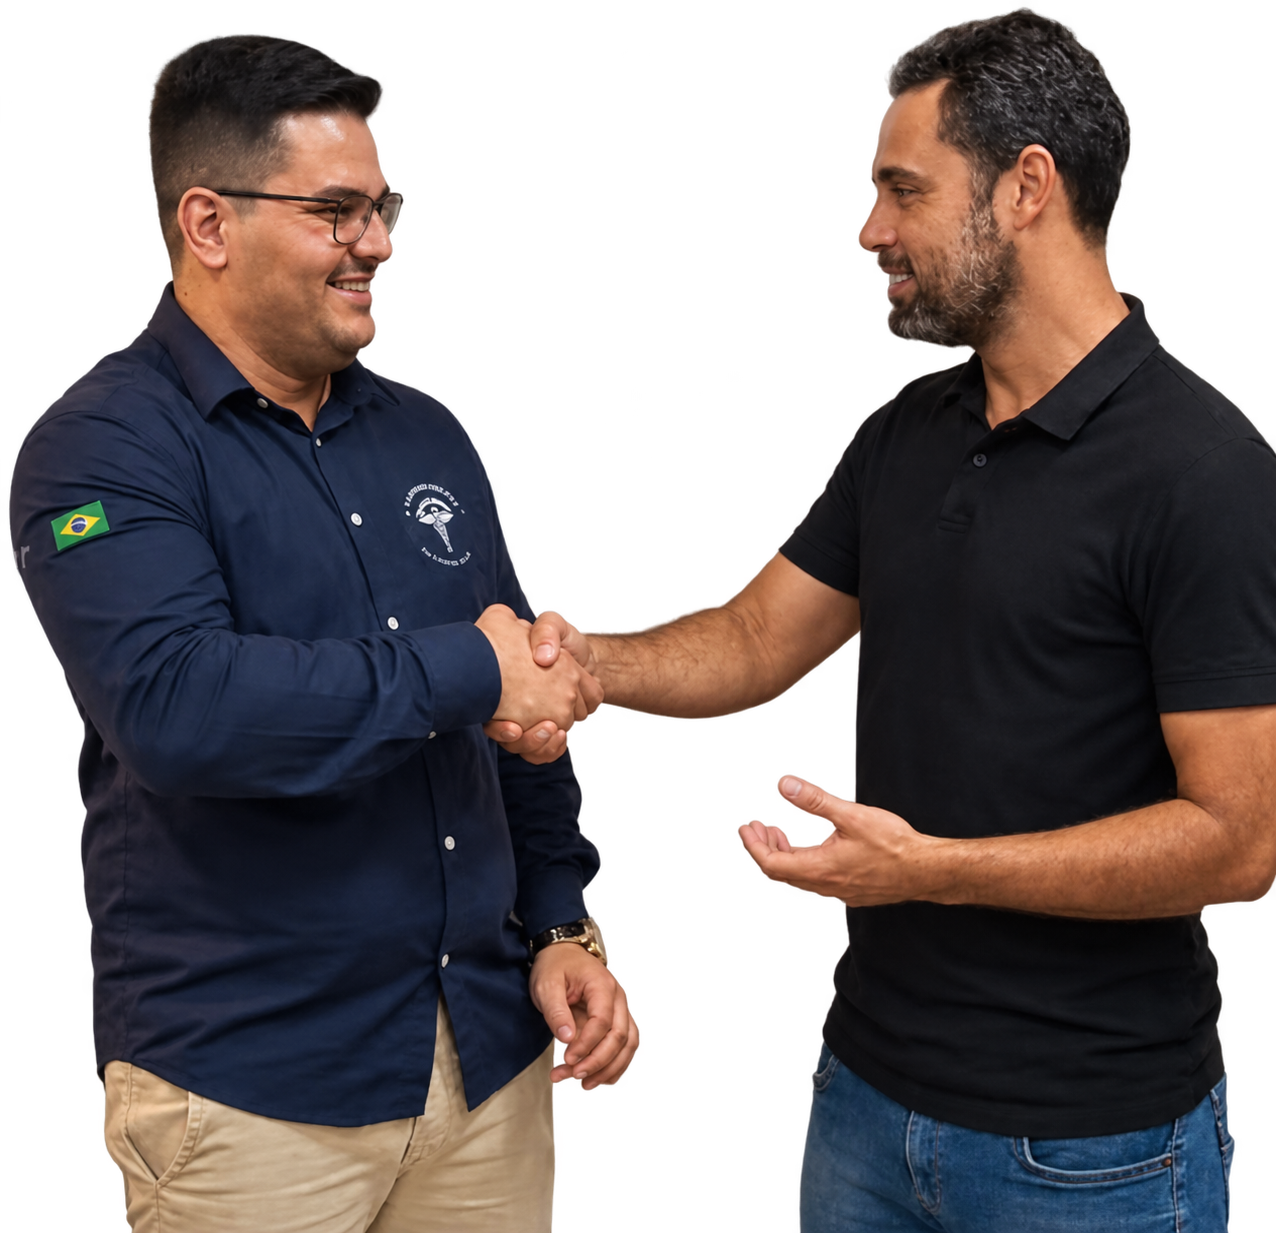
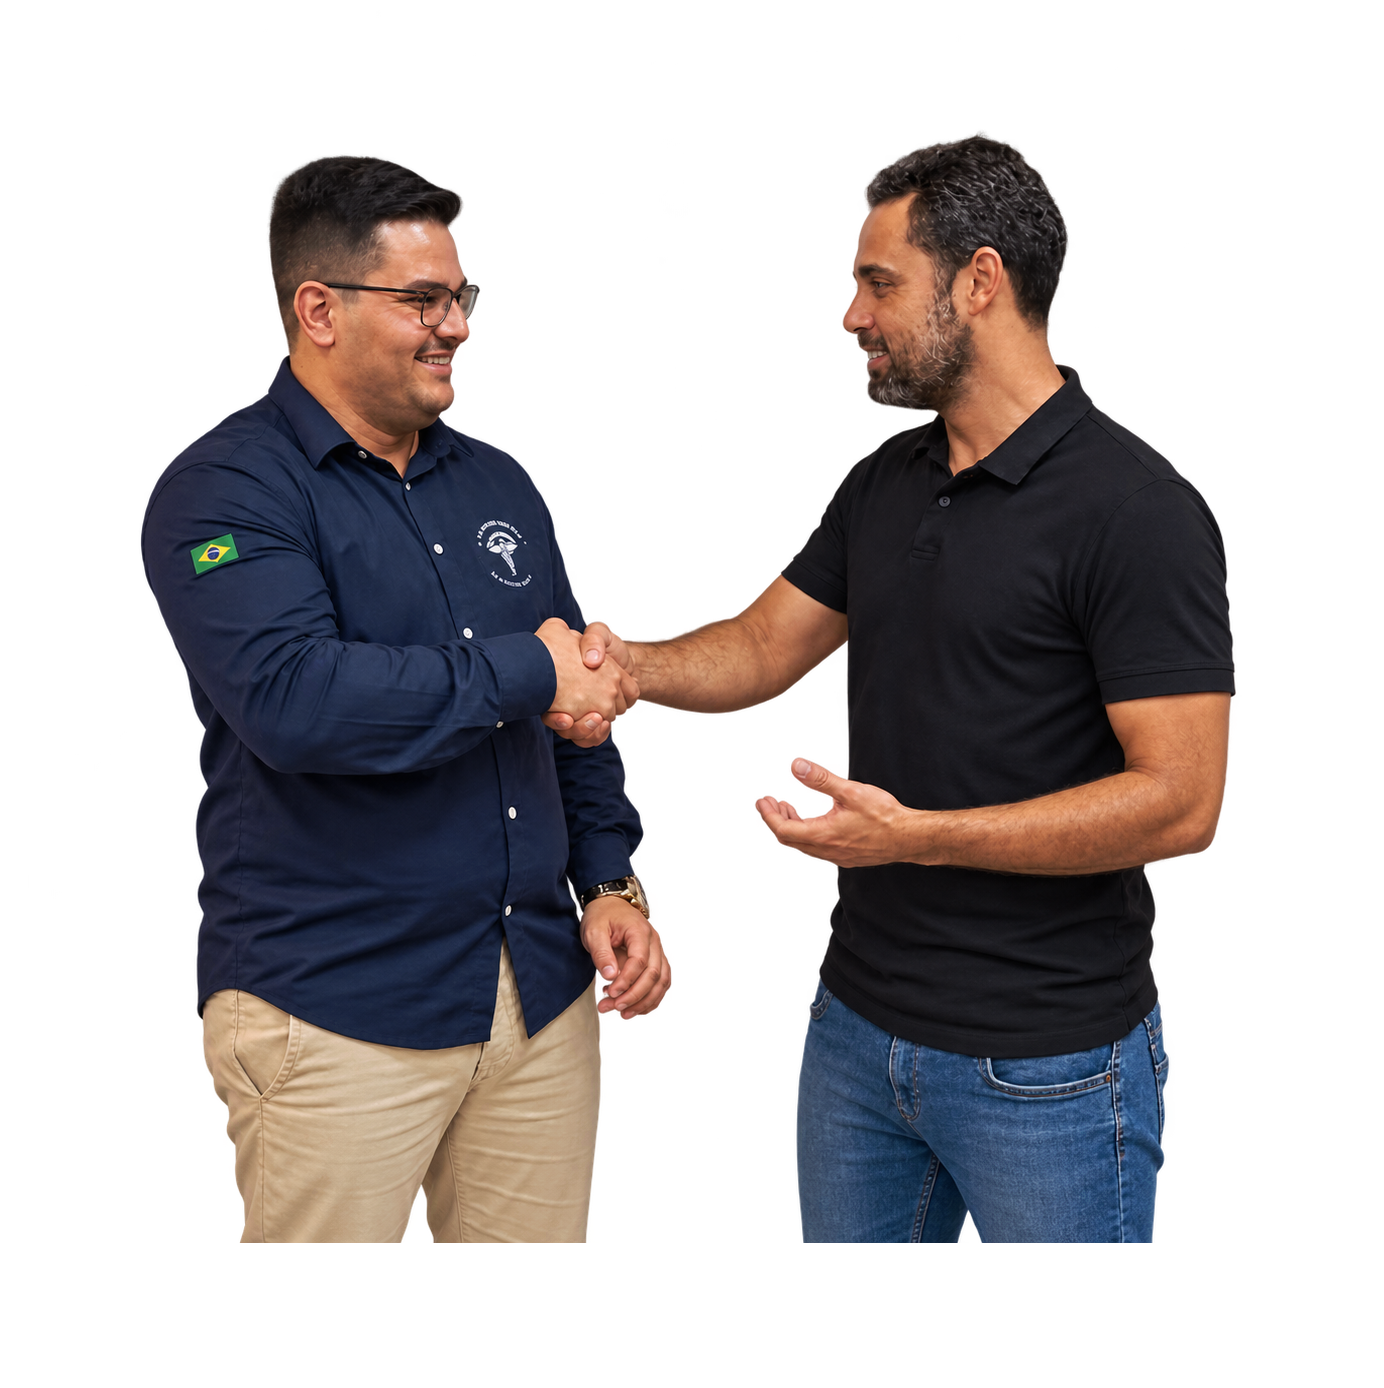
corrige scroll compacto, atmosfera clara e imagem de visibilidade

diff --git a/src/styles/global.css b/src/styles/global.css
@@ -45,26 +45,58 @@ body::after {
   pointer-events: none;
 }
 
-:root[data-theme='light'] body::after {
-  background-image:
-    radial-gradient(ellipse 56rem 44rem at 92% 14%, rgb(50 91 146 / 21%), transparent 72%),
-    radial-gradient(ellipse 50rem 40rem at 10% 52%, rgb(44 83 137 / 15%), transparent 74%),
-    radial-gradient(ellipse 62rem 42rem at 84% 96%, rgb(34 67 115 / 11.5%), transparent 78%);
-}
-
 @media (max-width: 43.75rem) {
-  body::after,
-  :root[data-theme='light'] body::after {
+  body::after {
     background-image:
       radial-gradient(ellipse 36rem 31rem at 100% 17%, rgb(48 112 190 / 7.5%), transparent 72%),
       radial-gradient(ellipse 32rem 29rem at 0% 78%, rgb(33 91 160 / 4.5%), transparent 74%);
   }
+}
 
-  :root[data-theme='light'] body::after {
+:root[data-theme='light'] body::after {
+  display: none;
+}
+
+:root[data-theme='light'] main > *,
+:root[data-theme='light'] main + footer {
+  background-image:
+    radial-gradient(ellipse 66rem 42rem at var(--atmosphere-primary, 86% 24%), var(--atmosphere-blue-strong), transparent 74%),
+    radial-gradient(ellipse 54rem 38rem at var(--atmosphere-secondary, 12% 82%), var(--atmosphere-blue-soft), transparent 76%),
+    radial-gradient(ellipse 62rem 42rem at var(--atmosphere-center, 50% 50%), var(--atmosphere-center-color, var(--atmosphere-blue-soft)), transparent 78%);
+}
+
+:root[data-theme='light'] main > *:nth-child(4n + 2) {
+  --atmosphere-primary: 12% 32%;
+  --atmosphere-secondary: 88% 84%;
+  --atmosphere-center: 50% 48%;
+}
+
+:root[data-theme='light'] main > *:nth-child(4n + 3) {
+  --atmosphere-primary: 78% 76%;
+  --atmosphere-secondary: 18% 18%;
+  --atmosphere-center: 48% 54%;
+}
+
+:root[data-theme='light'] main > *:nth-child(4n) {
+  --atmosphere-primary: 22% 60%;
+  --atmosphere-secondary: 86% 18%;
+  --atmosphere-center: 54% 46%;
+}
+
+:root[data-theme='light'] #processo {
+  --atmosphere-primary: 80% 16%;
+  --atmosphere-secondary: 18% 84%;
+  --atmosphere-center: 50% 50%;
+  --atmosphere-center-color: rgb(34 63 104 / 25%);
+}
+
+@media (max-width: 43.75rem) {
+  :root[data-theme='light'] main > *,
+  :root[data-theme='light'] main + footer {
     background-image:
-      radial-gradient(ellipse 36rem 33rem at 100% 15%, rgb(50 91 146 / 20%), transparent 72%),
-      radial-gradient(ellipse 33rem 32rem at 0% 52%, rgb(44 83 137 / 14%), transparent 74%),
-      radial-gradient(ellipse 36rem 30rem at 100% 94%, rgb(34 67 115 / 10.5%), transparent 78%);
+      radial-gradient(ellipse 35rem 31rem at var(--atmosphere-primary, 86% 24%), var(--atmosphere-blue-strong), transparent 74%),
+      radial-gradient(ellipse 31rem 28rem at var(--atmosphere-secondary, 12% 82%), var(--atmosphere-blue-soft), transparent 76%),
+      radial-gradient(ellipse 34rem 30rem at var(--atmosphere-center, 50% 50%), var(--atmosphere-center-color, var(--atmosphere-blue-soft)), transparent 78%);
   }
 }
 

diff --git a/src/sections/ProcessSection.module.css b/src/sections/ProcessSection.module.css
@@ -259,11 +259,53 @@
 }
 
 @media (max-height: 53rem) and (min-width: 56.251rem) {
-  .scene { padding-block: 1.75rem; }
-  .heading h2 { font-size: 2.5rem; }
-  .route { margin-top: 2rem; }
-  .copy h3 { font-size: 3rem; }
-  .step + .step { margin-top: 2rem; }
+  .section { padding-block: 1.25rem; }
+  .section[data-process-layout='sticky'] .scene {
+    top: 5.5rem;
+    min-height: calc(100svh - 5.5rem);
+    padding-block: 0.75rem;
+  }
+  .heading { gap: 2rem; margin-top: 0.625rem; }
+  .heading h2 { font-size: clamp(2.2rem, 3vw, 2.5rem); }
+  .heading > p { font-size: 0.875rem; line-height: 1.45; }
+  .route { gap: 2rem; margin-top: 1.25rem; }
+  .step { min-height: 2.25rem; font-size: 0.9375rem; }
+  .step + .step { margin-top: 1.5rem; }
+  .stepNumber { flex-basis: 2.25rem; height: 2.25rem; }
+  .timeline::before,
+  .timeline::after { top: 1.125rem; bottom: 1.125rem; left: 1.125rem; }
+  .chapter { padding-top: 0.75rem; }
+  .chapterNumber { top: -0.875rem; font-size: 7rem; }
+  .copy h3 { font-size: 2.75rem; }
+  .description { margin-top: 0.75rem; font-size: 0.9375rem; line-height: 1.45; }
+  .result { margin-top: 1.125rem; padding-top: 0.75rem; font-size: 0.96875rem; line-height: 1.45; }
+  .resultLabel { margin-bottom: 0.375rem; }
+  .counter { margin-top: 0.875rem; }
+}
+
+@media (max-height: 43rem) and (min-width: 56.251rem) {
+  .section[data-process-layout='sticky'] .scene {
+    top: 5rem;
+    min-height: calc(100svh - 5rem);
+    padding-block: 0.375rem;
+  }
+  .eyebrow { font-size: 0.625rem; }
+  .heading { gap: 0.5rem; margin-top: 0.375rem; }
+  .heading h2 { font-size: 2rem; }
+  .heading > p { font-size: 0.8125rem; line-height: 1.35; }
+  .route { gap: 1.25rem; margin-top: 0.625rem; }
+  .step { min-height: 2rem; gap: 0.875rem; font-size: 0.875rem; }
+  .step + .step { margin-top: 0.875rem; }
+  .stepNumber { flex-basis: 2rem; height: 2rem; font-size: 0.6875rem; }
+  .timeline::before,
+  .timeline::after { top: 1rem; bottom: 1rem; left: 1rem; }
+  .chapter { padding-top: 0.5rem; }
+  .chapterNumber { top: -0.625rem; font-size: 5.25rem; }
+  .copy h3 { font-size: 2.25rem; line-height: 1.03; }
+  .description { margin-top: 0.5rem; font-size: 0.84375rem; line-height: 1.38; }
+  .result { margin-top: 0.75rem; padding-top: 0.5625rem; font-size: 0.875rem; line-height: 1.38; }
+  .resultLabel { margin-bottom: 0.25rem; }
+  .counter { margin-top: 0.5rem; font-size: 0.625rem; }
 }
 
 @media (max-width: 56.25rem) {

diff --git a/src/sections/ProcessSection.test.tsx b/src/sections/ProcessSection.test.tsx
@@ -165,6 +165,13 @@ describe('editorial process section', () => {
     expect(document.querySelector('[data-process-layout="static"]')).toBeTruthy()
   })
 
+  it.each([620, 650, 720])('keeps the sticky editorial motor on a wide desktop at %ipx height', (height) => {
+    vi.stubGlobal('innerWidth', 1280)
+    vi.stubGlobal('innerHeight', height)
+    render(<ProcessSection />)
+    expect(document.querySelector('[data-process-layout="sticky"]')).toBeTruthy()
+  })
+
   it('remeasures the scroll start when content above the process changes height', () => {
     let onResize = () => {}
     const observed: Element[] = []

diff --git a/src/sections/useProcessScrollProgress.ts b/src/sections/useProcessScrollProgress.ts
@@ -1,11 +1,11 @@
 import { useEffect, useState, type RefObject } from 'react'
 
 type ElementRef = RefObject<HTMLElement | null>
-const staticQuery = '(max-width: 360px), (max-height: 700px)'
+const staticQuery = '(max-width: 360px)'
 
 function prefersStaticLayout() {
   return typeof window !== 'undefined' && (
-    window.innerWidth <= 360 || window.innerHeight <= 700 ||
+    window.innerWidth <= 360 ||
     (typeof window.matchMedia === 'function' && window.matchMedia(staticQuery).matches)
   )
 }

diff --git a/src/styles/tokens.css b/src/styles/tokens.css
@@ -127,6 +127,8 @@
 
 :root[data-theme='light'] {
   color-scheme: light;
+  --atmosphere-blue-strong: rgb(34 63 104 / 28%);
+  --atmosphere-blue-soft: rgb(42 76 123 / 17%);
   --surface-page: #f3f1ea;
   --surface-raised: #ffffff;
   --surface-interactive: #eee8dc;
